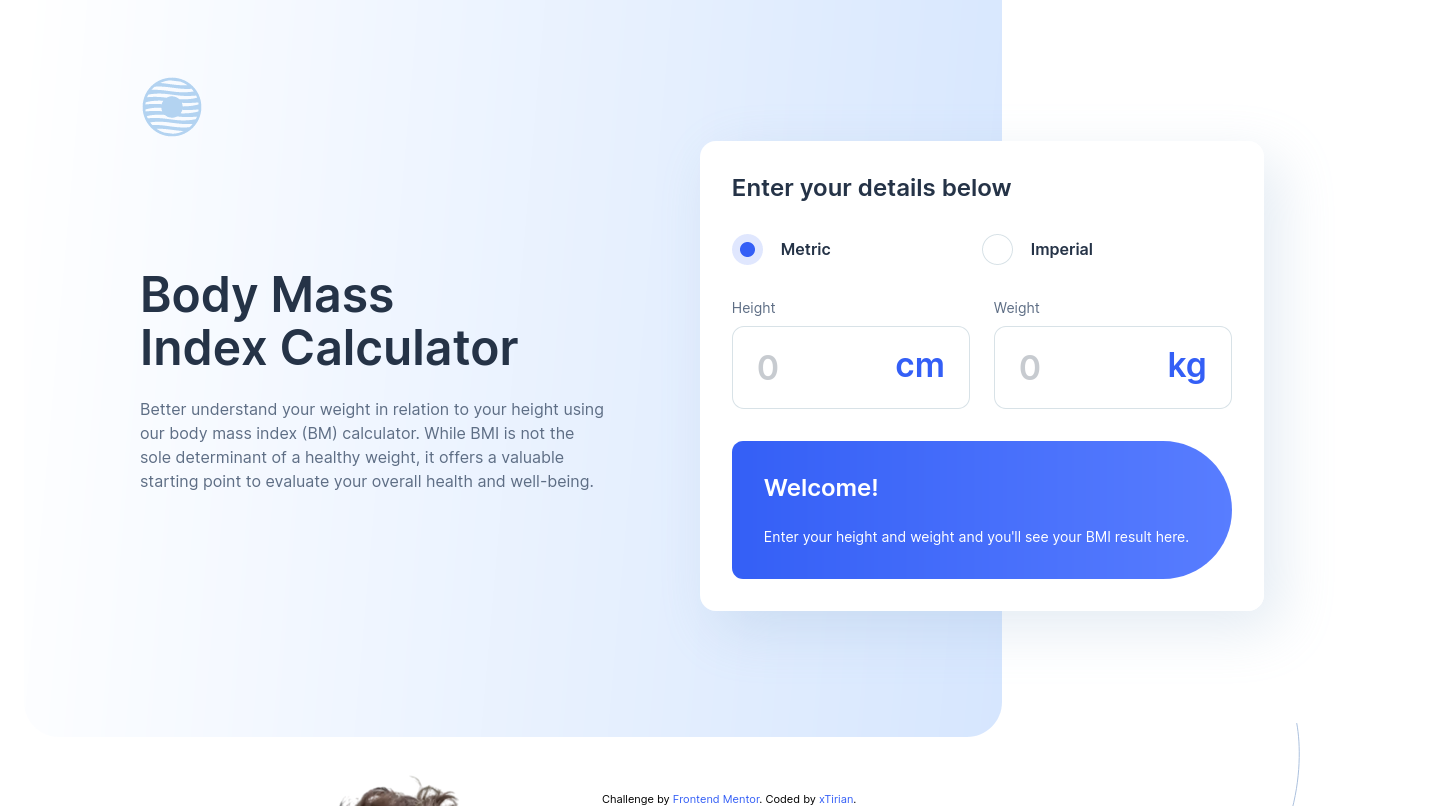
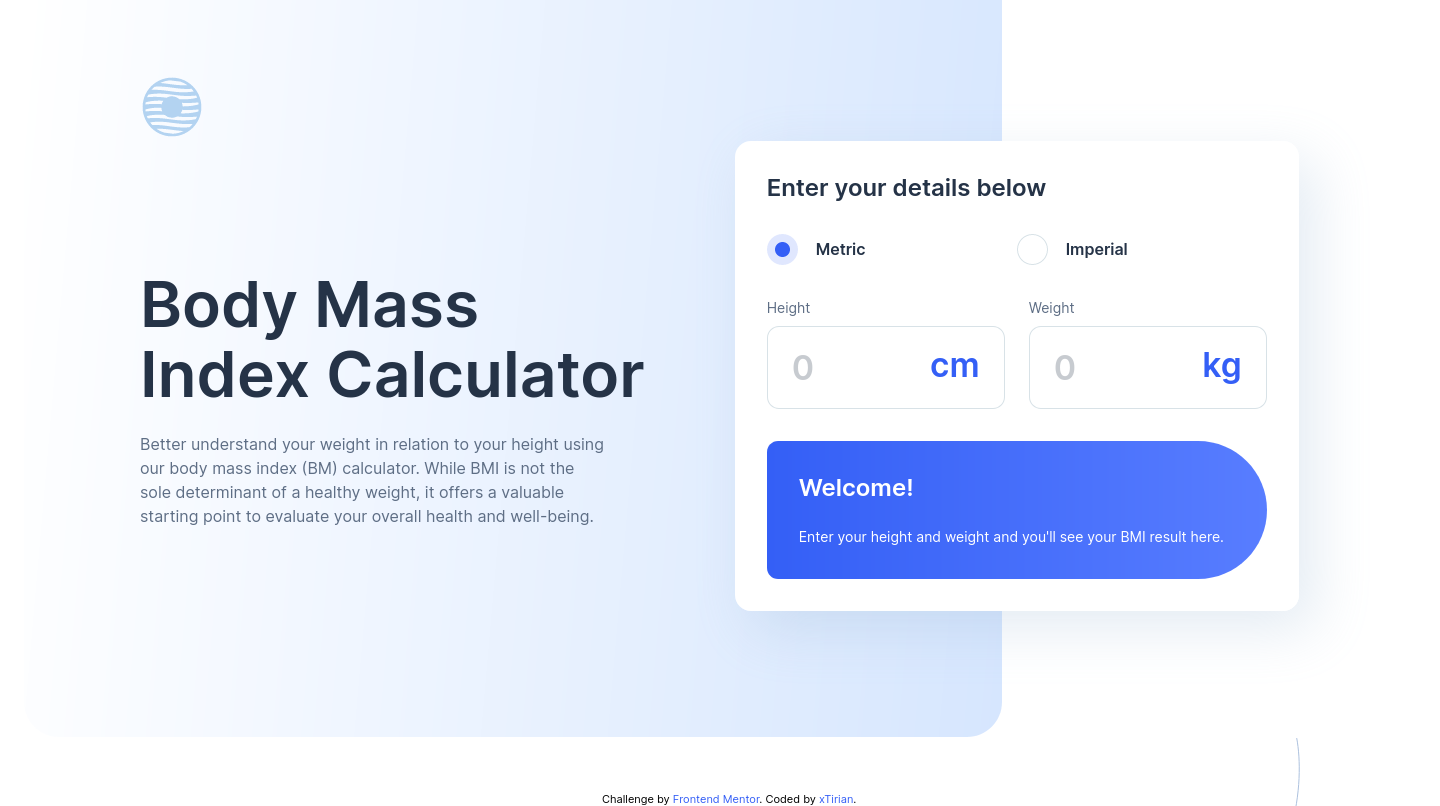
fixing header style and result screenshot

diff --git a/bmi-calculator/styles/css/1.header.css b/bmi-calculator/styles/css/1.header.css
@@ -1,5 +1,5 @@
 header .container {
-  width: 87.2%;
+  max-width: 87.2%;
   margin: 0 auto;
   padding-top: 32px;
   text-align: center;
@@ -9,7 +9,8 @@ header .container .logo {
 }
 @media screen and (min-width: 1160px) {
   header .container {
-    width: 80.5555556%;
+    width: 100%;
+    max-width: 1160px;
     margin: 0 auto;
     padding-top: 75px;
     text-align: left;

diff --git a/bmi-calculator/styles/sass/1.header.sass b/bmi-calculator/styles/sass/1.header.sass
@@ -13,6 +13,7 @@ header
 
  @include mixin.Desktop
   .container
+   width: 100%
    @include mixin.conL
    padding-top: 75px
    text-align: left
